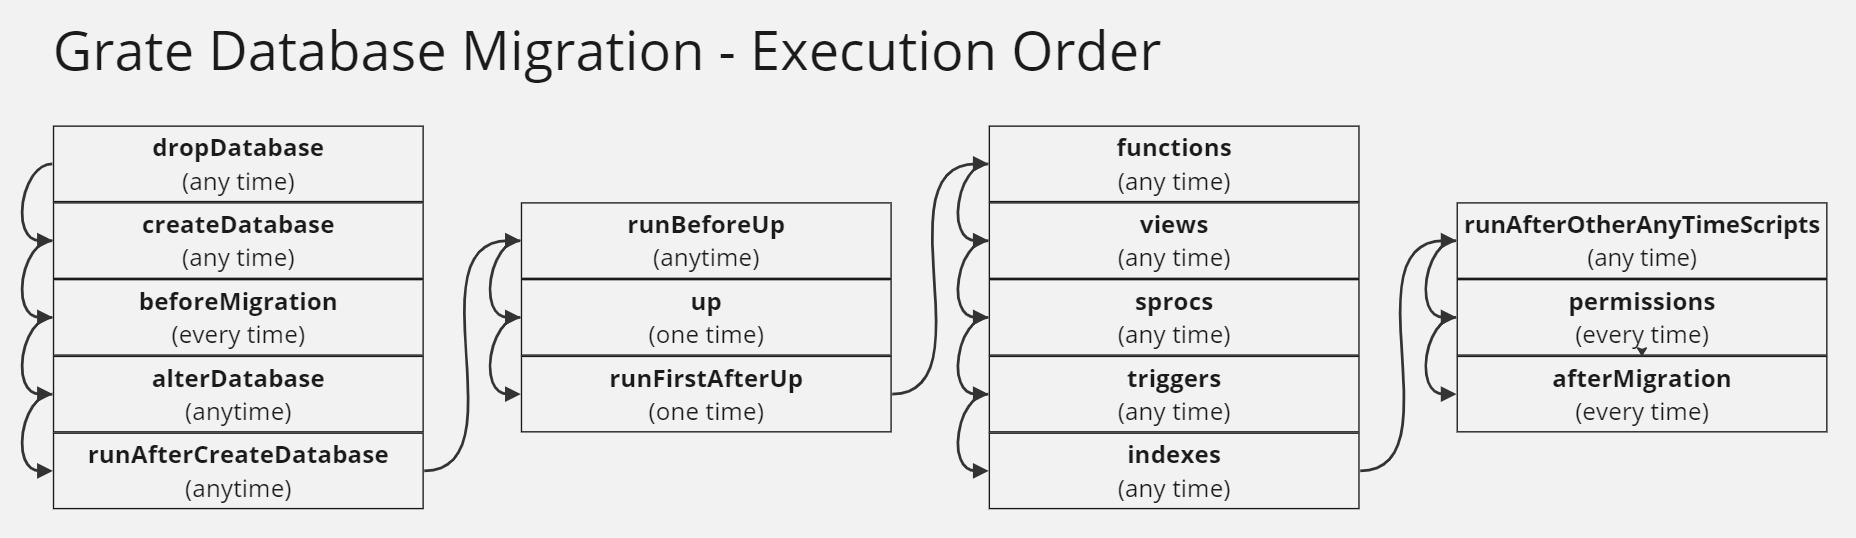
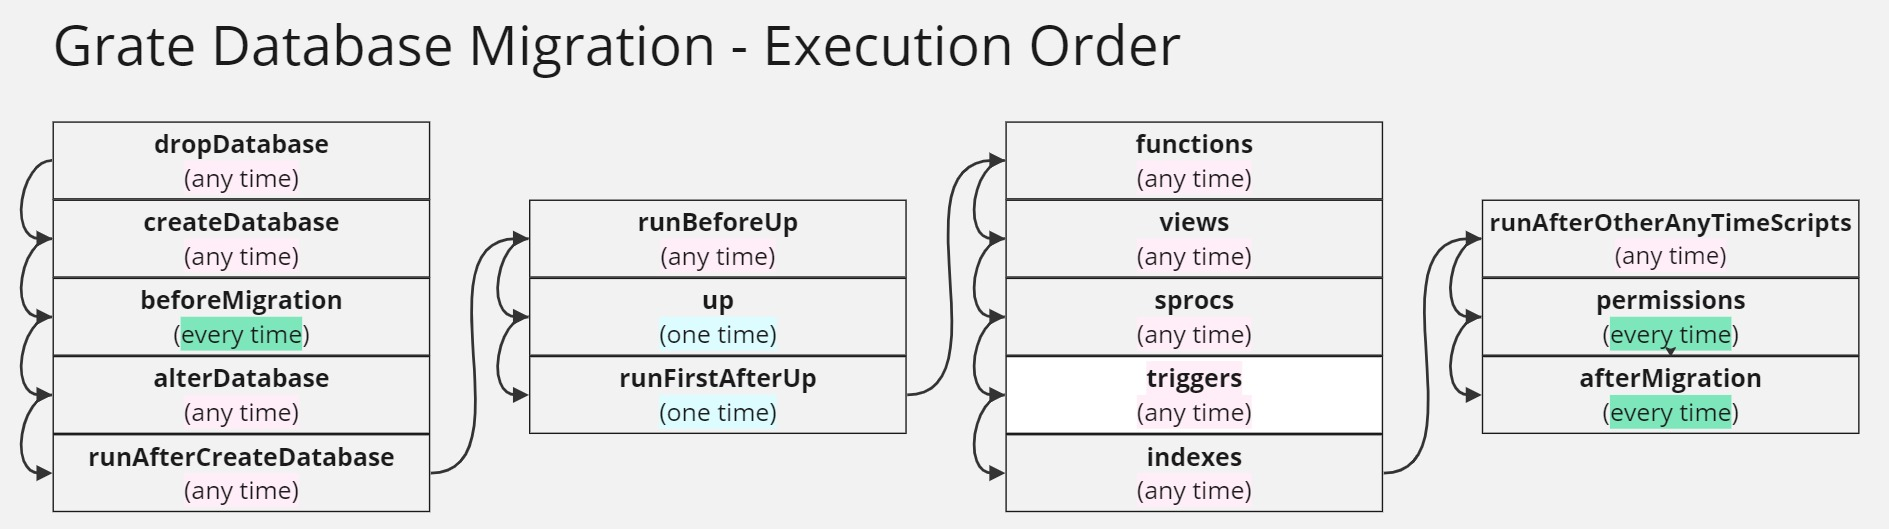
Readme and image updated

diff --git a/README.md b/README.md
@@ -5,5 +5,82 @@ PT_Demo_GrateDatabaseMigration is a simple demo to explain [Grate](https://githu
 ![grate-execution-order](/res/grate-execution-order.jpg)
 
 ## Contents
+- [Demo using Docker - Grate Docs Example](#demo-using-docker---grate-docs-example)
+- [Demo using Docker - DK Example](#demo-using-docker---dk-example)
+- [Links](#links)
 
-## Grate Docs
+## Demo using Docker - Grate Docs Example
+
+1. Create the following folder structure:
+
+- /src
+    - /docker
+        - /db
+            - /dropDatabase // -1. Anytime
+            - /createDatabase // 0. Anytime
+            - /beforeMigration // 1. Everytime
+            - /alterDatabase // 2. Anytime
+            - /runAfterCreateDatabase // 3. Anytime
+            - /runBeforeUp // 4. Anytime
+            - /up // 5. One-Time
+            - /runFirstAfterUp // 6. One-Time
+            - /functions // 7. Anytime
+            - /views // 8. Anytime
+            - /sprocs // 9. Anytime
+            - /triggers // 10. Anytime
+            - /indexes // 11. Anytime
+            - /runAfterOtherAnyTimeScripts // 12. Anytime
+            - /permissions // 13. Everytime
+            - /afterMigration // 14.  Everytime
+        - /output
+
+2. In `/up` folder, create SQL script `0001.CreateTable.Employee.sql`:
+
+- /src
+    - /docker
+        - /db
+            - /up
+                - 0001.CreateTable.Employee.sql
+
+```
+CREATE TABLE employee (
+  id int PRIMARY KEY, 
+  name text,
+  age int
+);
+```
+
+3. In `/docker` folder, create file `docker-compose.yml`:
+
+- /src
+    - /docker
+        - ddocker-compose.yml
+
+```
+version: "3.7"
+services:
+  db-migration:
+    #build: .
+    image: erikbra/grate:latest
+    environment:
+      # don't configure passwords here for real.  This is just a sample!
+      APP_CONNSTRING: "Server=your-remote-public-ip-address:your-remote-port;Database=your-db;User Id=your-user-id;Password=your-user-pass;TrustServerCertificate=True"
+      VERSION: "1.0.0.0"
+      DATABASE_TYPE: "postgresql" # sqlite, oracle, postgresql, sqlserver, mariadb
+    volumes:
+      - ./db:/db
+      - ./output:/output
+```
+
+## Demo using Docker - DK Example
+
+## Links
+
+Grate Docs - Directory Order:  
+https://erikbra.github.io/grate/getting-started/#directory-run-order
+
+Grate Docs - Configuration Options:
+https://erikbra.github.io/grate/configuration-options/
+
+Grate Repo - Example using Docker:  
+https://github.com/erikbra/grate/tree/main/examples/docker
